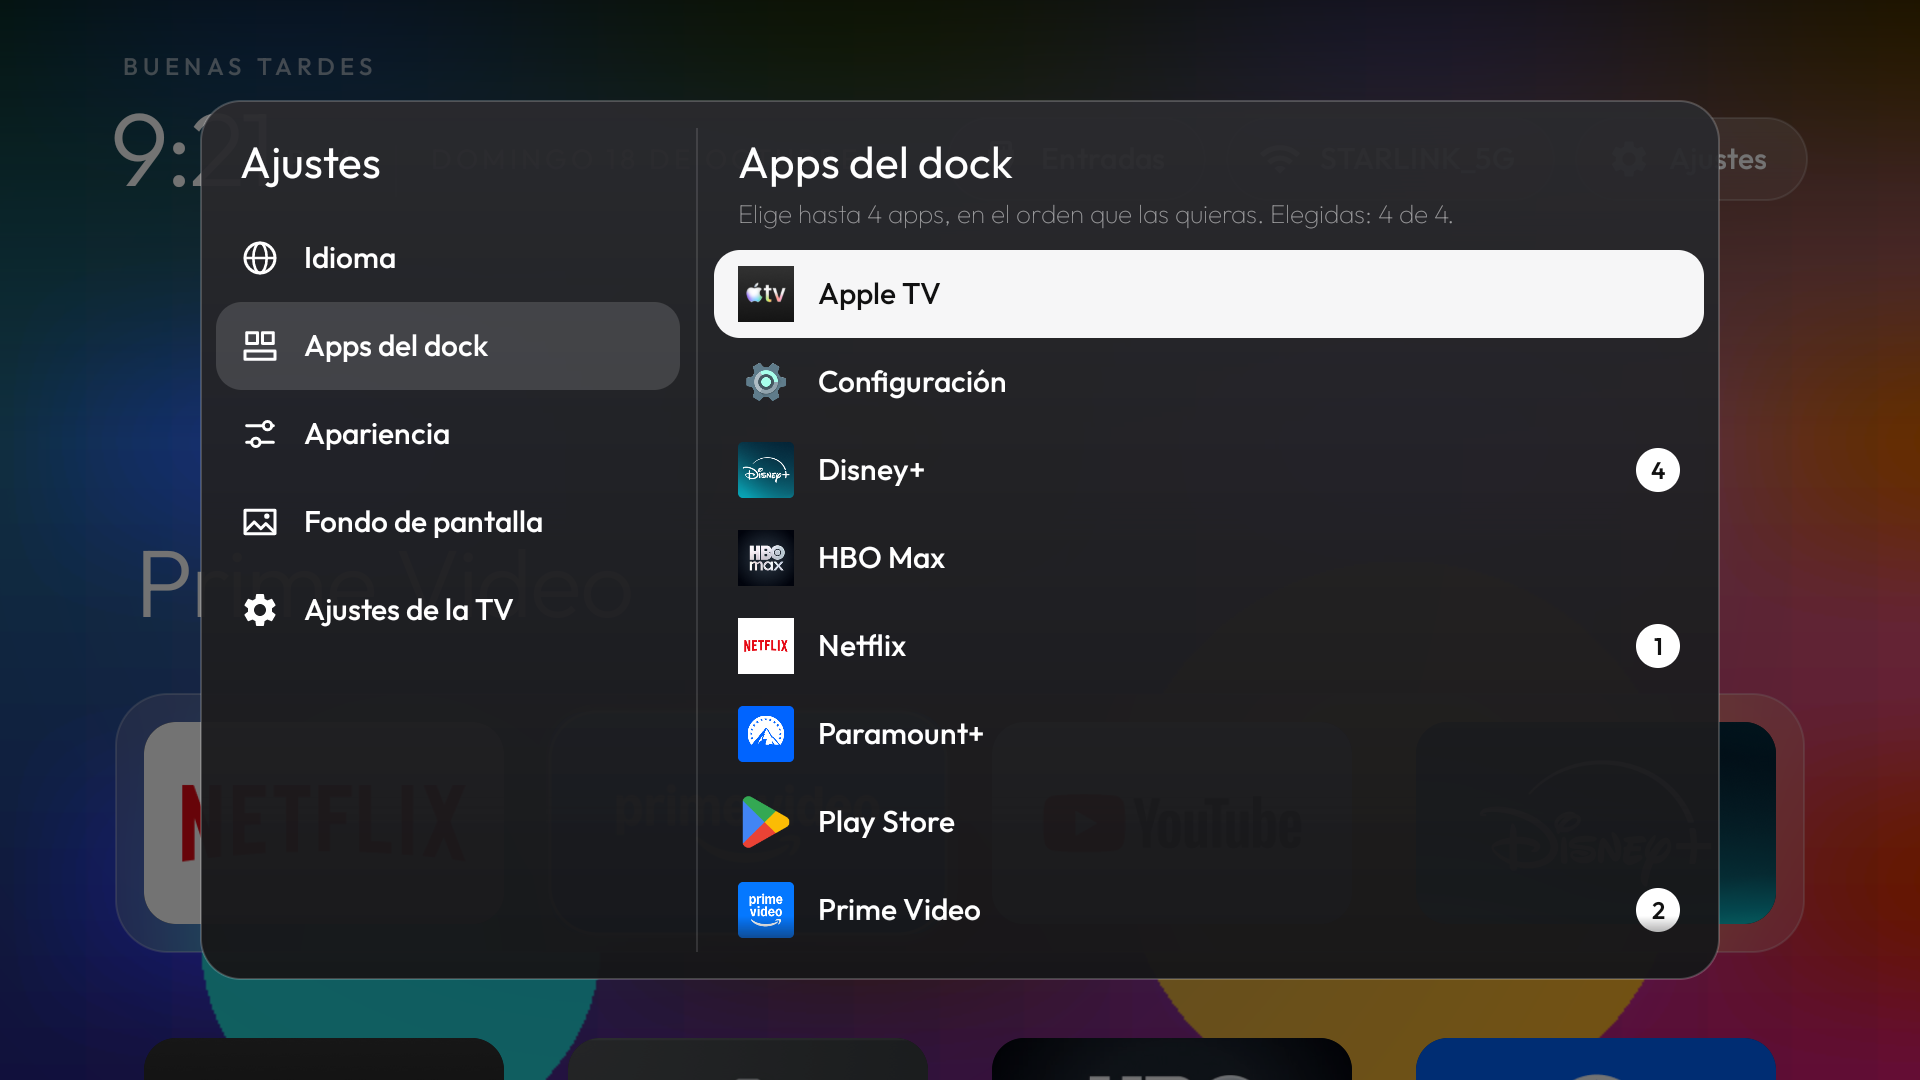
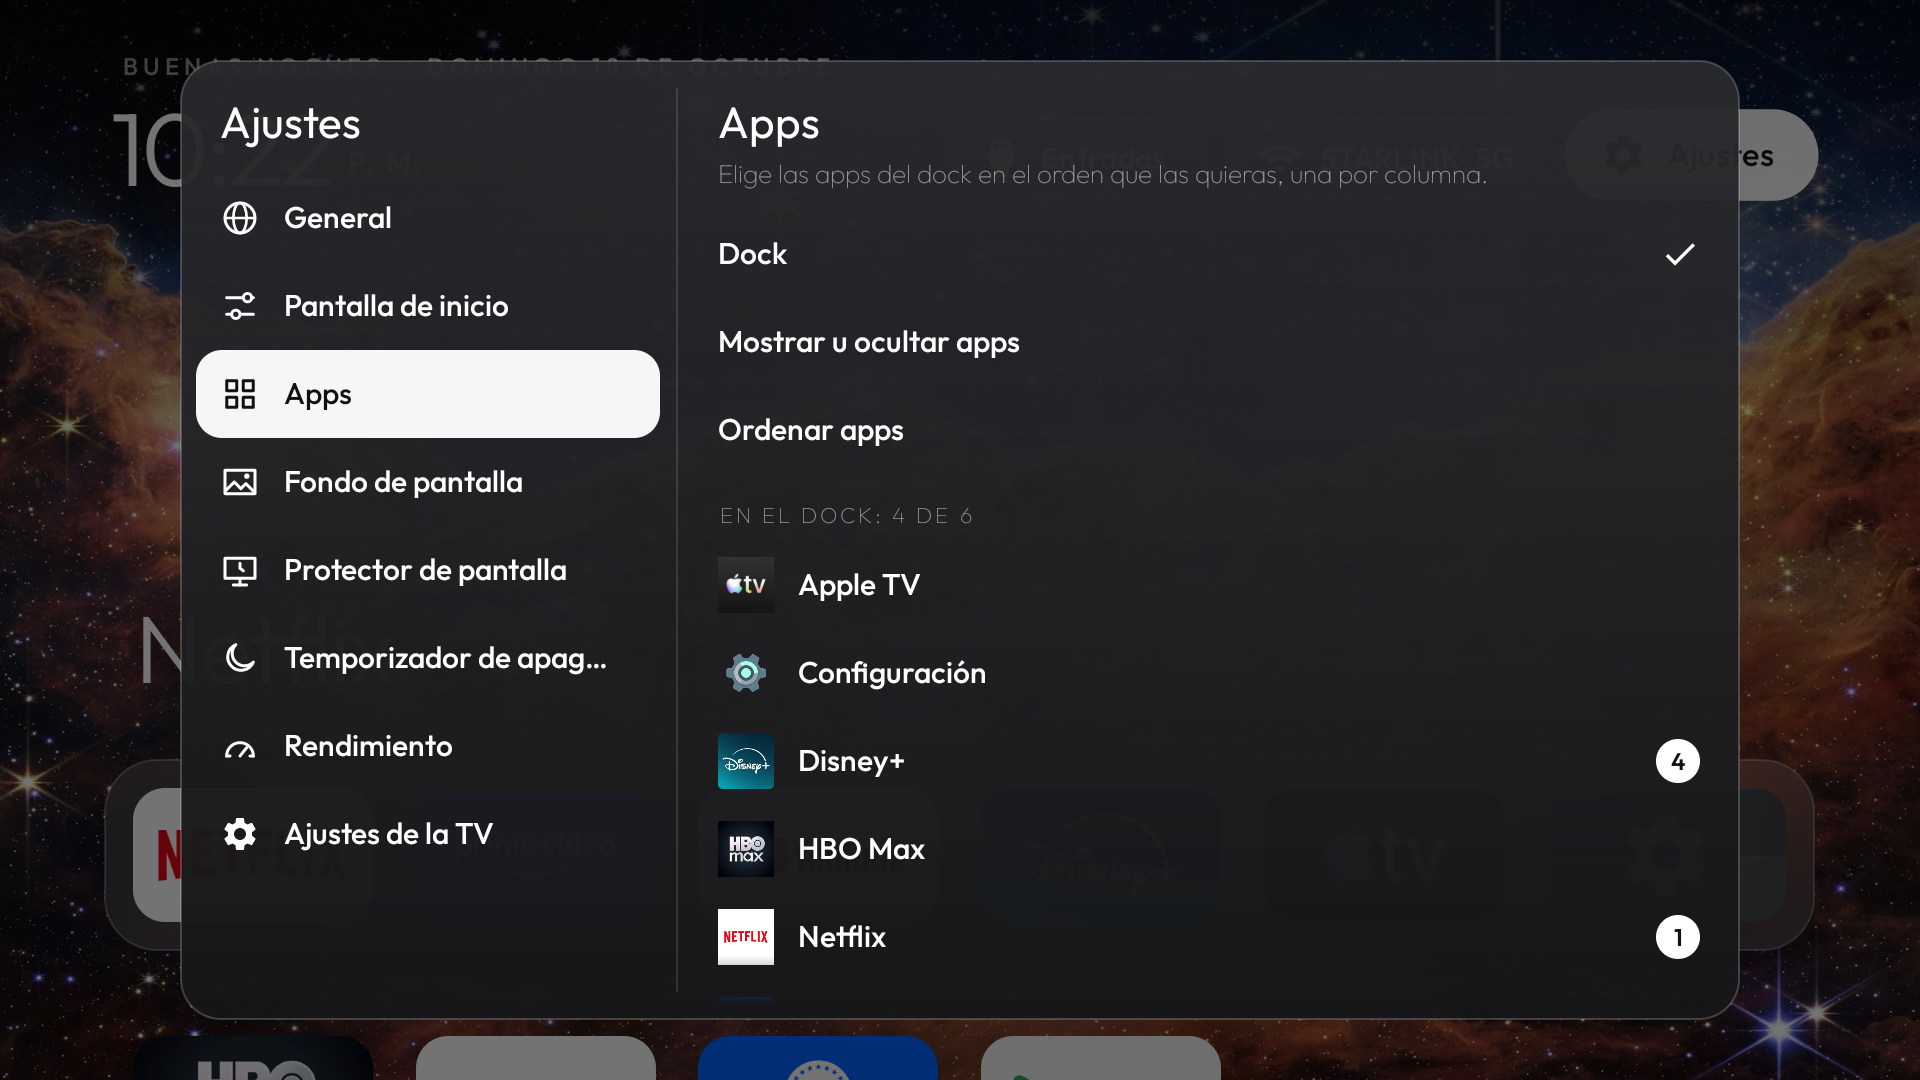
docs: update the README and screenshots for the reorganised settings
Documents the 8 sections, the sleep timer, the power-on input, the
gallery and automatic wallpaper changes, and how to uninstall the
launcher while it is a device admin.

diff --git a/README.md b/README.md
@@ -29,25 +29,29 @@ Es un fork de [Gathin23/tv-vibehack](https://github.com/Gathin23/tv-vibehack). E
 
 Capturas tomadas en la TV con `adb shell screencap`.
 
-| Inicio | Menú al mantener pulsada una app |
+| Inicio con fondo y 6 columnas | Menú al mantener pulsada una app |
 |---|---|
-| ![Inicio con el dock](docs/screenshots/inicio.png) | ![Menú desplegable junto a la app, con el resto desenfocado](docs/screenshots/menu-app.png) |
+| ![Inicio con fondo de pantalla](docs/screenshots/inicio-fondo-6-columnas.png) | ![Menú desplegable junto a la app](docs/screenshots/menu-app.png) |
 
-| Ajustes: apps | Ajustes: ordenar apps |
+| Ajustes: general | Ajustes: pantalla de inicio |
 |---|---|
-| ![Mostrar u ocultar apps](docs/screenshots/ajustes-apps.png) | ![Moviendo una app en la cuadrícula](docs/screenshots/ajustes-ordenar.png) |
+| ![Idioma y entrada al encender](docs/screenshots/ajustes-general.png) | ![Columnas y formato de hora](docs/screenshots/ajustes-pantalla-inicio.png) |
 
-| Ajustes: personalización | Ajustes: apps del dock |
+| Ajustes: apps (dock) | Ajustes: ordenar apps |
 |---|---|
-| ![Columnas y atenuar fondo](docs/screenshots/ajustes-personalizacion.png) | ![Selector de las 4 apps del dock](docs/screenshots/ajustes-apps-dock.png) |
+| ![Apps del dock](docs/screenshots/ajustes-apps-dock.png) | ![Moviendo una app en la cuadrícula](docs/screenshots/ajustes-ordenar.png) |
+
+| Ajustes: fondo de pantalla | Ajustes: apagado automático |
+|---|---|
+| ![Galería de fondos](docs/screenshots/ajustes-fondo.png) | ![Temporizador de apagado](docs/screenshots/ajustes-apagado.png) |
 
 | Ajustes: protector de pantalla | Protector de pantalla |
 |---|---|
 | ![Tiempo de espera y Probar ahora](docs/screenshots/ajustes-protector.png) | ![Reloj sobre el fondo de pantalla](docs/screenshots/protector.png) |
 
-| Ajustes: rendimiento |  |
+| Ajustes: rendimiento | Inicio con el temporizador en marcha |
 |---|---|
-| ![Memoria, liberar memoria, animaciones y blur](docs/screenshots/ajustes-rendimiento.png) |  |
+| ![Memoria, animaciones y blur](docs/screenshots/ajustes-rendimiento.png) | ![Aviso de apagado junto a la hora](docs/screenshots/inicio-temporizador.png) |
 
 ## Funciones
 
@@ -58,13 +62,13 @@ vidrio que el menú de Entradas.
 
 | Sección | Qué hace |
 |---|---|
-| **Idioma** | Inglés, español, o el idioma de la TV. Cambia textos, saludo y fecha al momento. |
-| **Apps del dock** | Elige las apps del dock y su orden (una por columna; se numeran). Incluye "Restaurar apps predeterminadas". |
-| **Apps** | *Mostrar u ocultar*: desmarca una app para quitarla del inicio. *Ordenar*: pulsa OK para tomar una app, muévela con arriba y abajo y suéltala con OK o Atrás. "Volver al orden alfabético" lo deshace. |
-| **Personalización** | Columnas (3, 4, 5 o 6); los iconos cambian de tamaño para llenar la fila y el dock usa las mismas columnas, alineado con la cuadrícula. Atenuar el fondo de pantalla (sin atenuar, 20 %, 40 % o 60 %). |
-| **Fondo de pantalla** | 8 fondos incluidos, con miniatura, o **Ninguno** para el negro con brillo de color. |
+| **General** | Idioma (inglés, español o el de la TV) y **entrada al encender**: pantalla de inicio, cualquier HDMI/AV o TV en vivo, con "Probar ahora". |
+| **Pantalla de inicio** | Columnas (3, 4, 5 o 6): los iconos cambian de tamaño y el dock usa las mismas columnas. **Formato de hora**: como la TV, 12 o 24 horas (también en el protector). |
+| **Apps** | Tres modos: **Dock** (elige sus apps y su orden, una por columna), **Mostrar u ocultar** y **Ordenar** (toma una app con OK, muévela con arriba/abajo y suéltala con OK o Atrás). |
+| **Fondo de pantalla** | Galería de los fondos incluidos, sin nombres, o "Sin fondo". **Atenuar** el fondo (20 %, 40 % o 60 %) y **cambiar automáticamente**: cada vez que se enciende la TV, cada hora o cada día. |
 | **Protector de pantalla** | Empezar después de 5, 10, 15, 30 minutos o 1 hora, o desactivado. **Probar ahora** lo muestra al momento. |
-| **Rendimiento** | Memoria en uso con barra, **Liberar memoria**, animaciones del launcher, blur (dock esmerilado y menús) y velocidad de las animaciones del sistema (normales, 0,5× o apagadas). |
+| **Apagado automático** | Apaga la TV en 15, 30, 45 minutos, 1 h, 1 h 30 o 2 h, aunque estés viendo algo. Avisa un minuto antes, y la hora de apagado se ve junto al reloj mientras está en marcha. |
+| **Rendimiento** | Memoria en uso con barra, **Liberar memoria**, animaciones del launcher, blur y velocidad de las animaciones del sistema. |
 | **Ajustes de la TV** | Abre los ajustes de Android (imagen, sonido, red…). |
 
 Los ajustes se guardan en `SharedPreferences` y sobreviven a reinicios. Los valores por defecto
@@ -94,8 +98,8 @@ temporizador de apagado de la TV no cambia.
   noches".
 - **Desvanecido superior.** Al bajar a la cuadrícula, las apps se desvanecen bajo la barra de la hora
   y los botones en vez de cortarse de golpe. Con fondo de pantalla, la barra lleva un degradado oscuro.
-- **Brillo de color en todas las apps.** El fondo toma el color de la app enfocada, en el dock y en
-  la cuadrícula.
+- **Brillo de color.** Sin fondo de pantalla, el fondo negro toma el color de la app enfocada, en el
+  dock y en la cuadrícula. Con fondo de pantalla no se usa: la imagen ya es el fondo.
 - **Botones superiores con animación.** Al enfocarlos se escalan y suben con un rebote suave; al
   pulsarlos se hunden y rebotan antes de abrir.
 
@@ -142,8 +146,9 @@ instala, da los permisos y deja el launcher como inicio:
 2. Instala el APK por Wi-Fi. Si la firma cambió (de debug a release), desinstala la anterior primero;
    en ese caso los ajustes del launcher vuelven a los valores por defecto.
 3. Da los permisos que la TV no deja dar desde sus menús: ubicación (para leer el nombre del Wi-Fi),
-   `WRITE_SECURE_SETTINGS` y `WRITE_SETTINGS` (para el protector de pantalla y las animaciones del
-   sistema).
+   `WRITE_SECURE_SETTINGS` y `WRITE_SETTINGS` (protector de pantalla y animaciones del sistema),
+   `SYSTEM_ALERT_WINDOW` (abrir la entrada al encender) y **administrador del dispositivo** (el
+   apagado automático: Android solo deja apagar la pantalla a un administrador).
 4. Lo pone como pantalla de inicio.
 
 ### Clave de firma
@@ -166,6 +171,12 @@ storePassword=TU_CONTRASEÑA
 keyAlias=tvhome
 keyPassword=TU_CONTRASEÑA
 ```
+
+### Desinstalar el launcher
+
+Por el apagado automático, el launcher es administrador del dispositivo, y Android no deja desinstalar
+un administrador activo. Antes de desinstalarlo, desactívalo en **Ajustes de la TV → Seguridad →
+Administradores de dispositivos**.
 
 ## Quitar el bloatware
 
@@ -203,6 +214,10 @@ modelo.
 | [`SettingsDialog.java`](launcher/app/src/main/java/com/gathin/tvhome/SettingsDialog.java) | El modal de ajustes con barra lateral y sus 8 secciones. |
 | [`Prefs.java`](launcher/app/src/main/java/com/gathin/tvhome/Prefs.java) | Ajustes guardados e idioma de la app. |
 | [`SystemTweaks.java`](launcher/app/src/main/java/com/gathin/tvhome/SystemTweaks.java) | Protector de pantalla, animaciones del sistema y memoria. |
+| [`SleepTimer.java`](launcher/app/src/main/java/com/gathin/tvhome/SleepTimer.java) | Apagado automático: alarmas, aviso previo y el administrador que apaga la pantalla. |
+| [`TvHomeApp.java`](launcher/app/src/main/java/com/gathin/tvhome/TvHomeApp.java) | Detecta el encendido de la TV para la entrada al encender y el cambio de fondo. |
+| [`Inputs.java`](launcher/app/src/main/java/com/gathin/tvhome/Inputs.java) | Entradas de la TV (HDMI, AV, TV en vivo) y cómo abrirlas. |
+| [`Clocks.java`](launcher/app/src/main/java/com/gathin/tvhome/Clocks.java) | Formato de 12 o 24 horas para los relojes. |
 | [`ClockScene.java`](launcher/app/src/main/java/com/gathin/tvhome/ClockScene.java) | La escena del protector, compartida por [`ClockDream`](launcher/app/src/main/java/com/gathin/tvhome/ClockDream.java) (el del sistema) y [`ScreensaverActivity`](launcher/app/src/main/java/com/gathin/tvhome/ScreensaverActivity.java) (Probar ahora). |
 | [`Blur.java`](launcher/app/src/main/java/com/gathin/tvhome/Blur.java) | Blur por software: captura desenfocada del inicio y copias suaves del fondo. |
 | [`Wallpapers.java`](launcher/app/src/main/java/com/gathin/tvhome/Wallpapers.java) | Lista, carga y miniaturas de los fondos. |
